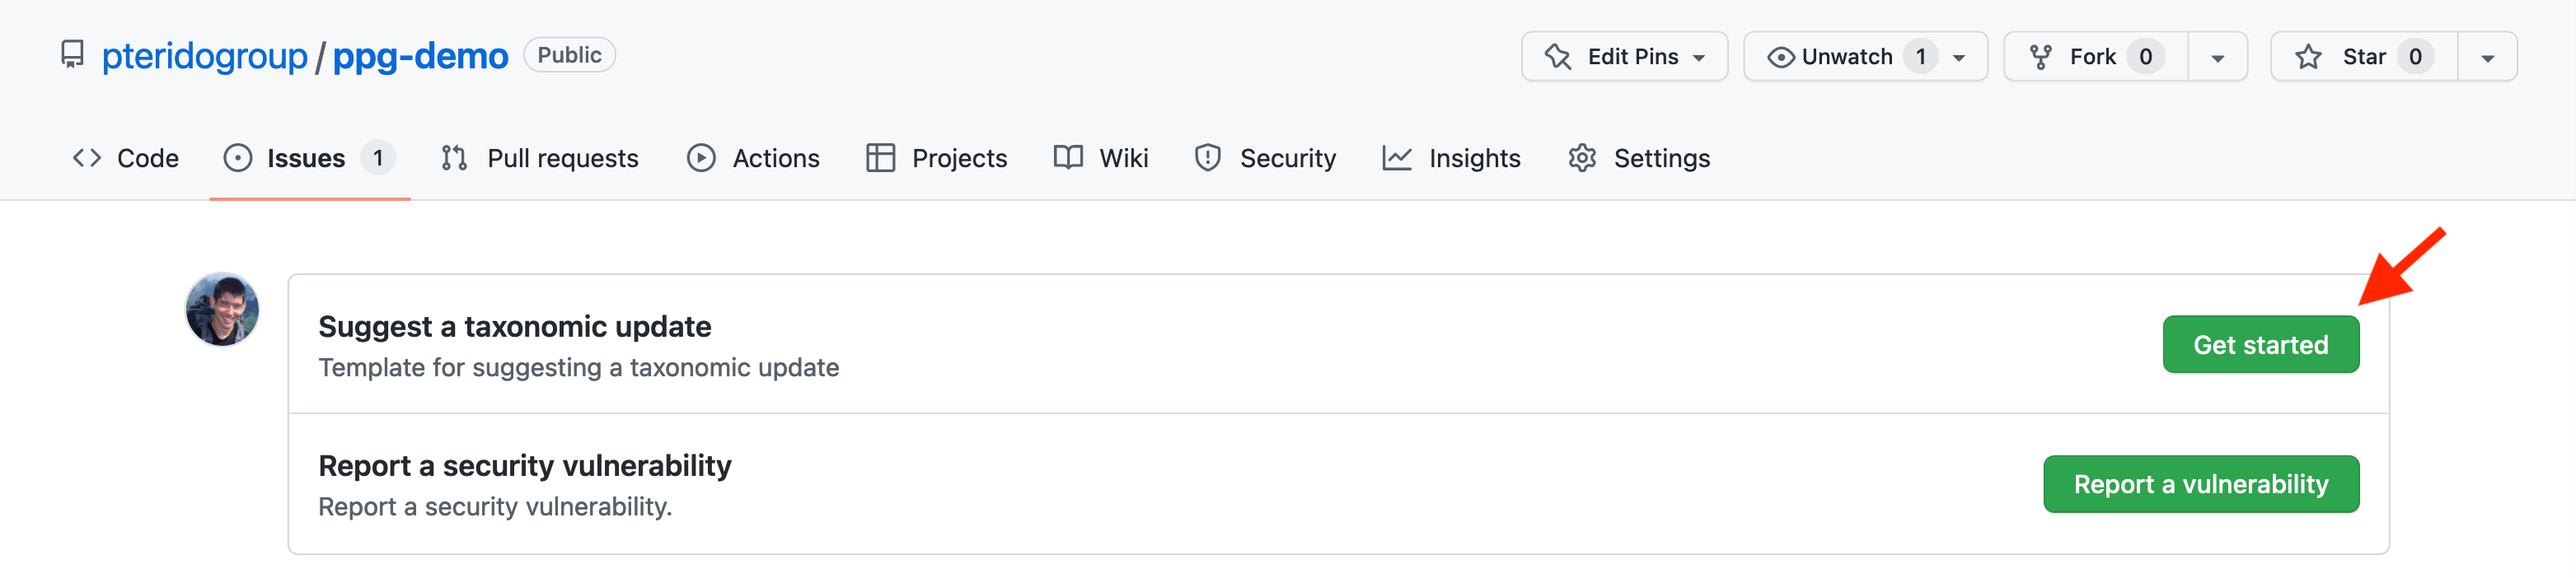
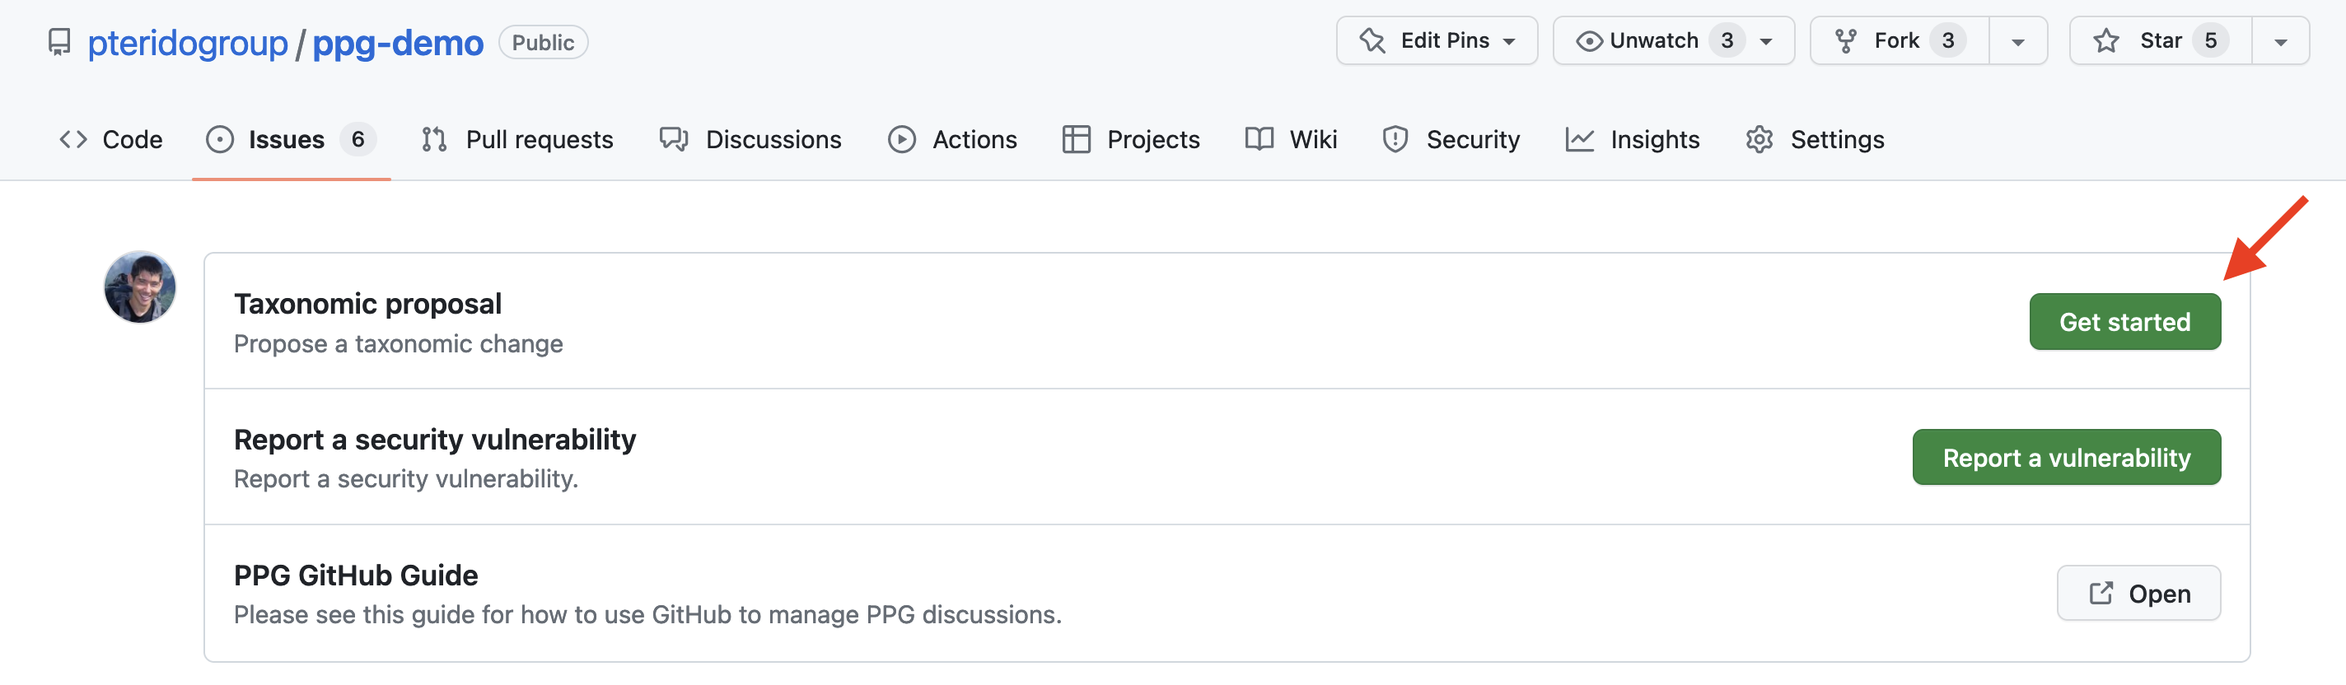
Built site for gh-pages

diff --git a/github.html b/github.html
@@ -152,7 +152,7 @@ ul.task-list li input[type="checkbox"] {
 <h2 class="anchored" data-anchor-id="background-information">Background information</h2>
 <section id="about-repos" class="level3">
 <h3 class="anchored" data-anchor-id="about-repos">About repos</h3>
-<p>A <strong>repository</strong> (or “<strong>repo</strong>” for short) is a project—a collection of files in a single folder (that may contain subfolders)—that is tracked by a piece of version-control software called “git”. Git can be thought of as a fancy “undo” tool—it keeps track of all previous versions of your documents so you can always go back to earlier versions if you want to. GitHub is a web service to host repos in the cloud (online) so that anybody can access them. For our purposes, one need not know anything about git—just think of GitHub as a website that can host our classification and our discussions.</p>
+<p>A <strong>repository</strong> (or “<strong>repo</strong>” for short) is a project—a collection of files in a single folder (that may contain subfolders) that is tracked by a piece of version-control software called “git”. Git can be thought of as a fancy “undo” tool—it keeps track of all previous versions of your documents so you can always go back to earlier versions if you want to. GitHub is a web service to host repos in the cloud (online) so that anybody can access them. For our purposes, one need not know anything about git—just think of GitHub as a website that can host our classification and our discussions.</p>
 </section>
 <section id="about-issues" class="level3">
 <h3 class="anchored" data-anchor-id="about-issues">About issues</h3>
@@ -246,7 +246,7 @@ Warning
 </figure>
 </div>
 </div></div><ol start="3" type="1">
-<li>Click on the “Get started” button next to “Suggest a taxonomic update” (<a href="#fig-3">Figure&nbsp;3</a>)</li>
+<li>Click on the “Get started” button next to “Taxonomic proposal” (<a href="#fig-3">Figure&nbsp;3</a>)</li>
 </ol>
 
 <div class="no-row-height column-margin column-container"><div class="">
@@ -257,7 +257,7 @@ Warning
 </figure>
 </div>
 </div></div><ol start="4" type="1">
-<li>Fill out the form provided (<a href="#fig-4">Figure&nbsp;4</a>). It comes pre-populated with prompts and comments to help remind you of important information to include, and to ensure that proposals to update PPG are sufficiently informative to support productive discussion. When you are done filling out the form, hit the “Submit new issue” button. You’re done!</li>
+<li>Fill out the form provided (<a href="#fig-4">Figure&nbsp;4</a>). It includes fields to ensure that proposals to update PPG are sufficiently informative for productive discussion. When you are done filling out the form, hit the “Submit new issue” button. You’re done!</li>
 </ol>
 <div class="callout callout-style-default callout-tip callout-captioned">
 <div class="callout-header d-flex align-content-center">
@@ -312,7 +312,7 @@ Tip: Include the taxon name in the issue title
 </figure>
 </div>
 </div></div><ol start="3" type="1">
-<li>Fill out the dialog box with your comment and press the green “Comment” button. Keep in mind that we will maintain this discussion thread in perpetuity, and want it to be maximally useful for all users. Of course, civility is essential, and please make the extra effort to ensure that each comment has the maximal amount of information—refrain from contributing to long threads of simple agreements, or unfocussed discussions.</li>
+<li>Fill out the dialog box with your comment and press the green “Comment” button. Keep in mind that we will maintain this discussion thread in perpetuity, and want it to be maximally useful for all users. Of course, civility is essential, and please make the extra effort to ensure that each comment has the maximal amount of information—refrain from contributing to long threads of simple agreements, or unfocused discussions.</li>
 </ol>
 <div class="callout callout-style-default callout-tip callout-captioned">
 <div class="callout-header d-flex align-content-center">
